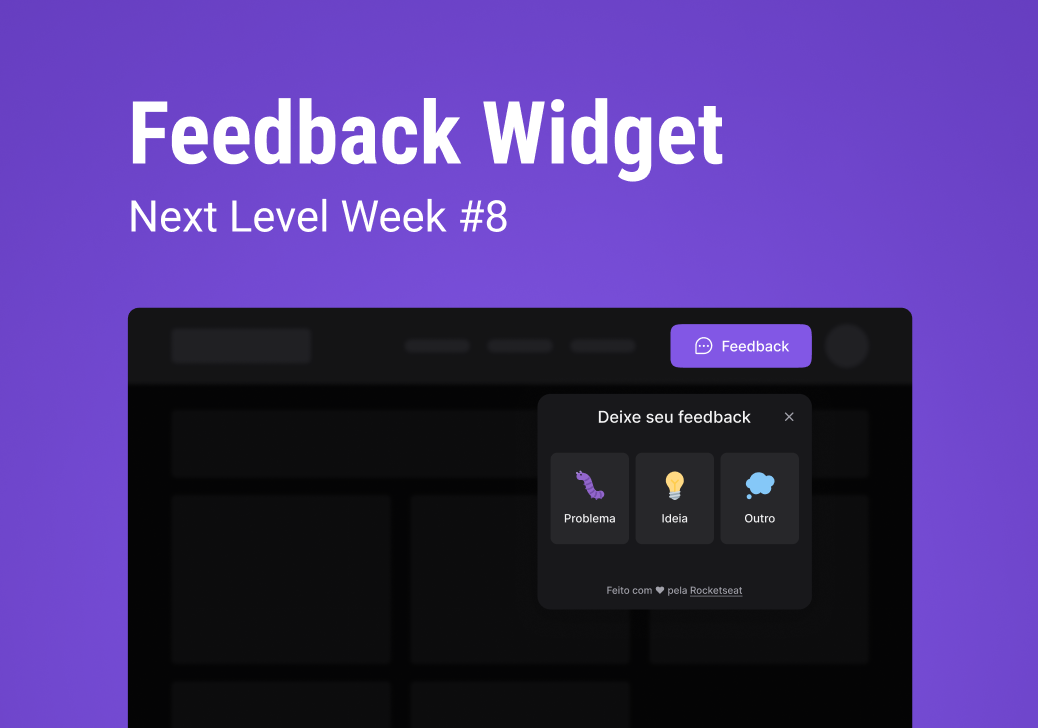
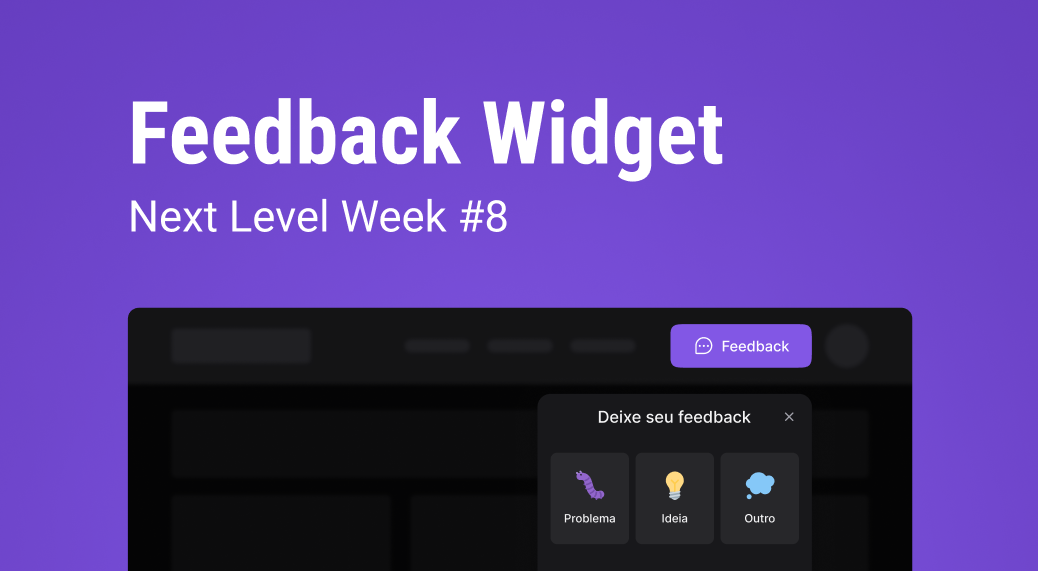
fix footer text

Changed region(s): [[0.1233, 0.3573, 0.894, 0.7443], [0.1233, 0.1191, 0.7091, 0.3275], [0.5241, 0.8039, 0.7707, 0.9527]]

diff --git a/web/src/components/WidgetButton.tsx b/web/src/components/WidgetButton.tsx
@@ -1,4 +1,3 @@
-// import { useState } from "react";
 import { ChatTeardropDots } from "phosphor-react";
 import { Popover } from "@headlessui/react";
 import { WidgetForm } from "./WidgetForm";
@@ -13,8 +12,9 @@ export function WidgetButton() {
       <Popover.Button className="bg-brand-500 rounded-full px-3 h-12 text-white flex items-center group">
         <ChatTeardropDots className="w-6 h-6" />
         <span className="max-w-0 overflow-hidden group-hover:max-w-xs transition-all duration-300 ease-linear">
-          <span className="pl-2"></span>
+          <span className="pl-2">
           Feedback
+          </span>
         </span>
       </Popover.Button>
     </Popover>

diff --git a/web/src/components/WidgetForm/index.tsx b/web/src/components/WidgetForm/index.tsx
@@ -61,12 +61,12 @@ export function WidgetForm() {
       )}
 
       <footer className="text-xs text-neutral-400">
-        Feito com ♥ pela{" "}
+        Feito com ♥ por{" "}
         <a
           className="underline underline-offset-2"
-          href="https://rocketseat.com.br"
+          href="https://arianebrandao.github.io"
         >
-          Rocketseat
+          Ariane Brandão
         </a>
       </footer>
     </div>
